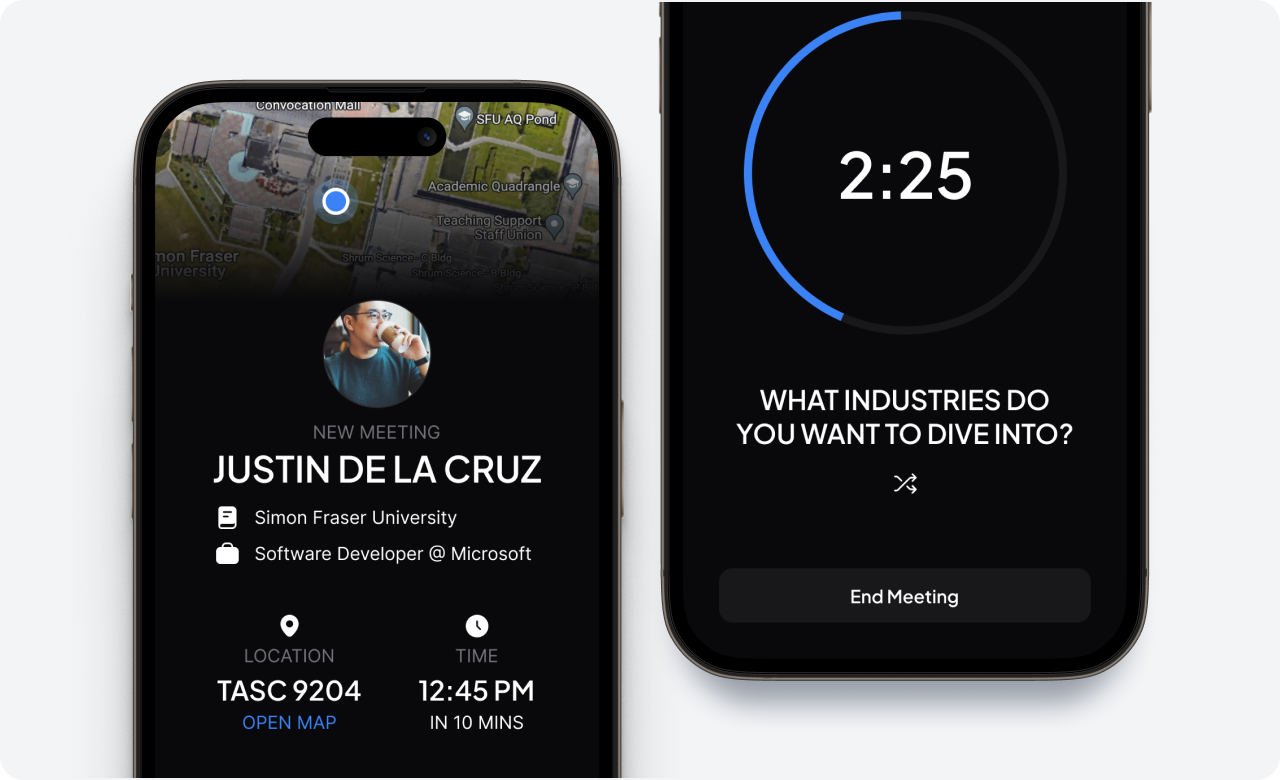
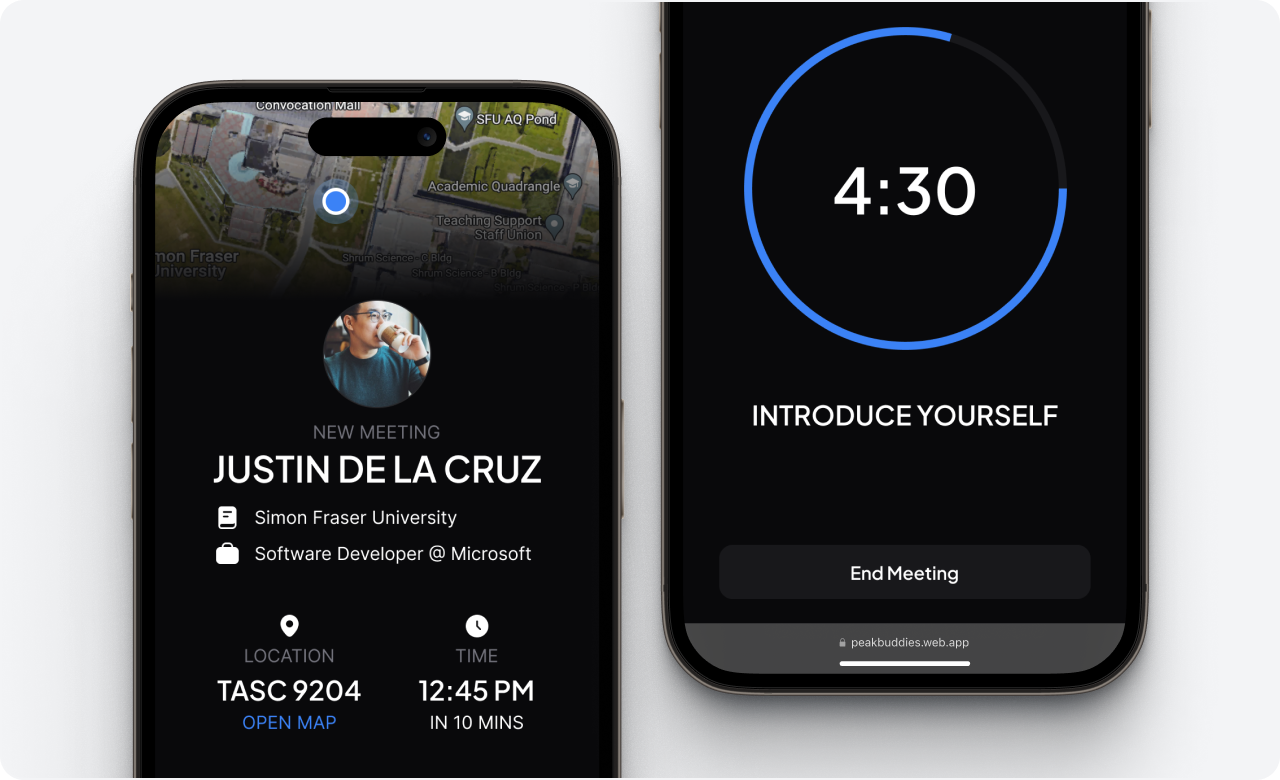
Make project navbar project title match current project, update PeakBuddies images

diff --git a/src/data/projects.ts b/src/data/projects.ts
@@ -59,6 +59,85 @@ interface Projects {
 }
 
 export const PROJECT_LIST: Projects = {
+  "peak-buddies": {
+    header: {
+      name: "PeakBuddies",
+      title: "“BeReal” but for hackathons, a fresh new take on networking",
+      ctaLabel: "View GitHub Repo",
+      ctaLink: "https://github.com/Mountain-Madness-24/peakbuddies",
+      image: peakBuddiesProjectImage,
+    },
+    info: {
+      role: ["Primary Product Designer", "Frontend Developer"],
+      timeline: "Mountain Madness 2024, 24-hour hackathon, 1st place winner",
+      skills: ["Frontend Development", "Design Systems", "Product Design"],
+      team: [
+        {
+          name: "Zachary Chan",
+          link: "https://www.linkedin.com/in/zachary-chan-a125a01bb/",
+        },
+        {
+          name: "Kian Hosseinkhani",
+          link: "https://www.linkedin.com/in/kian-khani/",
+        },
+        {
+          name: "Peyman Zhiani",
+          link: "https://www.linkedin.com/in/peiman-zhiani/",
+        },
+      ],
+    },
+    highlights: {
+      description:
+        "PeakBuddies borrows the simple concept of “BeReal” and leverages community at hackathons to bring a fresh take on the networking experience. I designed the user experience and brand identity of the product as well as lead implementation of the frontend development.",
+      images: [
+        {
+          src: peakBuddiesHighlightsLoginOnboarding,
+          alt: "Login and onboarding screens",
+        },
+        {
+          src: peakBuddiesHighlightsNetworkingFlow,
+          alt: "The networking flow of PeakBuddies",
+        },
+      ],
+    },
+    problem: {
+      content: [
+        "Everyone in university is told to go out and network. But everyone knows how intimidating it is...especially as an undergrad. I remember going to my first networking event with my friends and how paralyzed we felt standing in a room full of working professionals with years of experience under their belts. Meanwhile, us students clung to our tiny tables eating our fancy mini burgers. ",
+        "But what exactly makes networking scary, especially for a university student? From personal experience, I can narrow the issue down to two words: awkward and ingenuine. It’s awkward to walk up to a stranger and talk to them, especially someone of higher seniority. Then, there’s the transactional nature of networking. It doesn’t feel like you’re making a genuine connection with the other party and most of the time this is true. So as a student, how do you actually build a network that you can actually reach out to?",
+        "So, when my friends and I heard the theme of this year’s Mountain Madness hackathon, the idea of working on something around a new perspective immediately brought me to my own frustrations with networking.",
+        "Then, it hit me: I was currently sitting in a room full of other awkward university students eager to build cool projects and meet other hackers! Let’s leverage that.",
+      ],
+    },
+    solution: {
+      content: [
+        "Introducing PeakBuddies! What do you do with hundreds of students in an enclosed area, a limited time frame where the majority of the time spent is sitting in the same spot, and the goal of getting everyone to network with each other? Speed networking at random times throughout the event.",
+        "The idea is simple: (1) hackathon organizers create an event and set locations of interest where hackers can meet up, (2) hackers join the event by going to a link, (3) at random times throughout the day, hackers get matched and are given instructions to meet up at a pre-determined location, (4) once the pair meet, they start the speed networking and are guided by the app, (5) return to their hacking nests and repeat from step 3!",
+      ],
+      images: [
+        {
+          src: peakBuddiesSolution,
+          alt: "How PeakBuddies works",
+        },
+      ],
+    },
+    result: {
+      content: [
+        "After hours of hard work, a questionable overnight stay on Burnaby Mountain campus, and one nerve-wracking presentation later, PeakBuddies took home the first place prize! The concept proved to be popular amongst the judges as well as others who we pitched it to.",
+        "The team also learned a lot during our 24 hours together since there were a lot of moving components to the application. One was the matching system that ran in the background at a certain interval. The challenge was sending the match info to the appropriate users so that they would receive the match screen at the same time. This required a lot of tinkering with the backend and sockets that took the entire night to get right. Another hurdle was adding the map with the appropriate location market to the top of the new match screen. Using an external API always brings some chaos and that’s exactly what happened during implementation. Luckily, that feature made it by the time the deadline hit.",
+        "Overall, the project was a big success and the team’s next move is to pitch this to some local hackathon committees for some early adoption!",
+      ],
+      images: [
+        {
+          src: peakBuddiesResultAnnouncement,
+          alt: "PeakBuddies wins first place at MountainMadness",
+        },
+        {
+          src: peakBuddiesResultPresentation,
+          alt: "The PeakBuddies team during our presentation",
+        },
+      ],
+    },
+  },
   "gather-sfu": {
     header: {
       name: "GatherSFU",
@@ -169,85 +248,6 @@ export const PROJECT_LIST: Projects = {
       message: [
         "Purposely is an employee experience platform that helps companies build strong and resilient workplace culture through employee volunteer initiatives.",
         "This project is private, please contact me for more info.",
-      ],
-    },
-  },
-  "peak-buddies": {
-    header: {
-      name: "PeakBuddies",
-      title: "“BeReal” but for hackathons, a fresh new take on networking",
-      ctaLabel: "View GitHub Repo",
-      ctaLink: "https://github.com/Mountain-Madness-24/peakbuddies",
-      image: peakBuddiesProjectImage,
-    },
-    info: {
-      role: ["Primary Product Designer", "Frontend Developer"],
-      timeline: "Mountain Madness 2024, 24-hour hackathon, 1st place winner",
-      skills: ["Frontend Development", "Design Systems", "Product Design"],
-      team: [
-        {
-          name: "Zachary Chan",
-          link: "https://www.linkedin.com/in/zachary-chan-a125a01bb/",
-        },
-        {
-          name: "Kian Hosseinkhani",
-          link: "https://www.linkedin.com/in/kian-khani/",
-        },
-        {
-          name: "Peyman Zhiani",
-          link: "https://www.linkedin.com/in/peiman-zhiani/",
-        },
-      ],
-    },
-    highlights: {
-      description:
-        "PeakBuddies borrows the simple concept of “BeReal” and leverages community at hackathons to bring a fresh take on the networking experience. I designed the user experience and brand identity of the product as well as lead implementation of the frontend development.",
-      images: [
-        {
-          src: peakBuddiesHighlightsLoginOnboarding,
-          alt: "Login and onboarding screens",
-        },
-        {
-          src: peakBuddiesHighlightsNetworkingFlow,
-          alt: "The networking flow of PeakBuddies",
-        },
-      ],
-    },
-    problem: {
-      content: [
-        "Everyone in university is told to go out and network. But everyone knows how intimidating it is...especially as an undergrad. I remember going to my first networking event with my friends and how paralyzed we felt standing in a room full of working professionals with years of experience under their belts. Meanwhile, us students clung to our tiny tables eating our fancy mini burgers. ",
-        "But what exactly makes networking scary, especially for a university student? From personal experience, I can narrow the issue down to two words: awkward and ingenuine. It’s awkward to walk up to a stranger and talk to them, especially someone of higher seniority. Then, there’s the transactional nature of networking. It doesn’t feel like you’re making a genuine connection with the other party and most of the time this is true. So as a student, how do you actually build a network that you can actually reach out to?",
-        "So, when my friends and I heard the theme of this year’s Mountain Madness hackathon, the idea of working on something around a new perspective immediately brought me to my own frustrations with networking.",
-        "Then, it hit me: I was currently sitting in a room full of other awkward university students eager to build cool projects and meet other hackers! Let’s leverage that.",
-      ],
-    },
-    solution: {
-      content: [
-        "Introducing PeakBuddies! What do you do with hundreds of students in an enclosed area, a limited time frame where the majority of the time spent is sitting in the same spot, and the goal of getting everyone to network with each other? Speed networking at random times throughout the event.",
-        "The idea is simple: (1) hackathon organizers create an event and set locations of interest where hackers can meet up, (2) hackers join the event by going to a link, (3) at random times throughout the day, hackers get matched and are given instructions to meet up at a pre-determined location, (4) once the pair meet, they start the speed networking and are guided by the app, (5) return to their hacking nests and repeat from step 3!",
-      ],
-      images: [
-        {
-          src: peakBuddiesSolution,
-          alt: "How PeakBuddies works",
-        },
-      ],
-    },
-    result: {
-      content: [
-        "After hours of hard work, a questionable overnight stay on Burnaby Mountain campus, and one nerve-wracking presentation later, PeakBuddies took home the first place prize! The concept proved to be popular amongst the judges as well as others who we pitched it to.",
-        "The team also learned a lot during our 24 hours together since there were a lot of moving components to the application. One was the matching system that ran in the background at a certain interval. The challenge was sending the match info to the appropriate users so that they would receive the match screen at the same time. This required a lot of tinkering with the backend and sockets that took the entire night to get right. Another hurdle was adding the map with the appropriate location market to the top of the new match screen. Using an external API always brings some chaos and that’s exactly what happened during implementation. Luckily, that feature made it by the time the deadline hit.",
-        "Overall, the project was a big success and the team’s next move is to pitch this to some local hackathon committees for some early adoption!",
-      ],
-      images: [
-        {
-          src: peakBuddiesResultAnnouncement,
-          alt: "PeakBuddies wins first place at MountainMadness",
-        },
-        {
-          src: peakBuddiesResultPresentation,
-          alt: "The PeakBuddies team during our presentation",
-        },
       ],
     },
   },

diff --git a/src/pages/project-page.tsx b/src/pages/project-page.tsx
@@ -31,7 +31,7 @@ export const ProjectPage = () => {
                 Back
               </div>
             </Link>
-            <h2 className="text-xs font-medium">GatherSFU</h2>
+            <h2 className="text-xs font-medium">{projectData.header.name}</h2>
           </header>
         }
         className="opacity-0 animate-blur-in [--blur-delay:50ms]"
